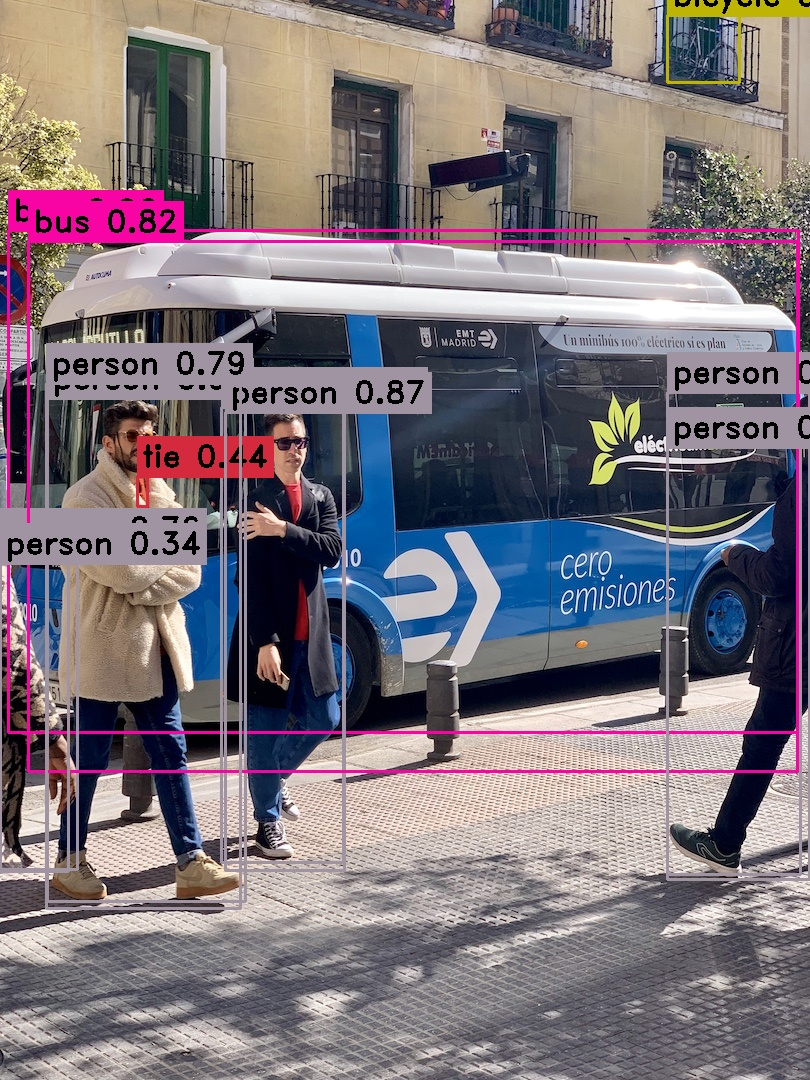
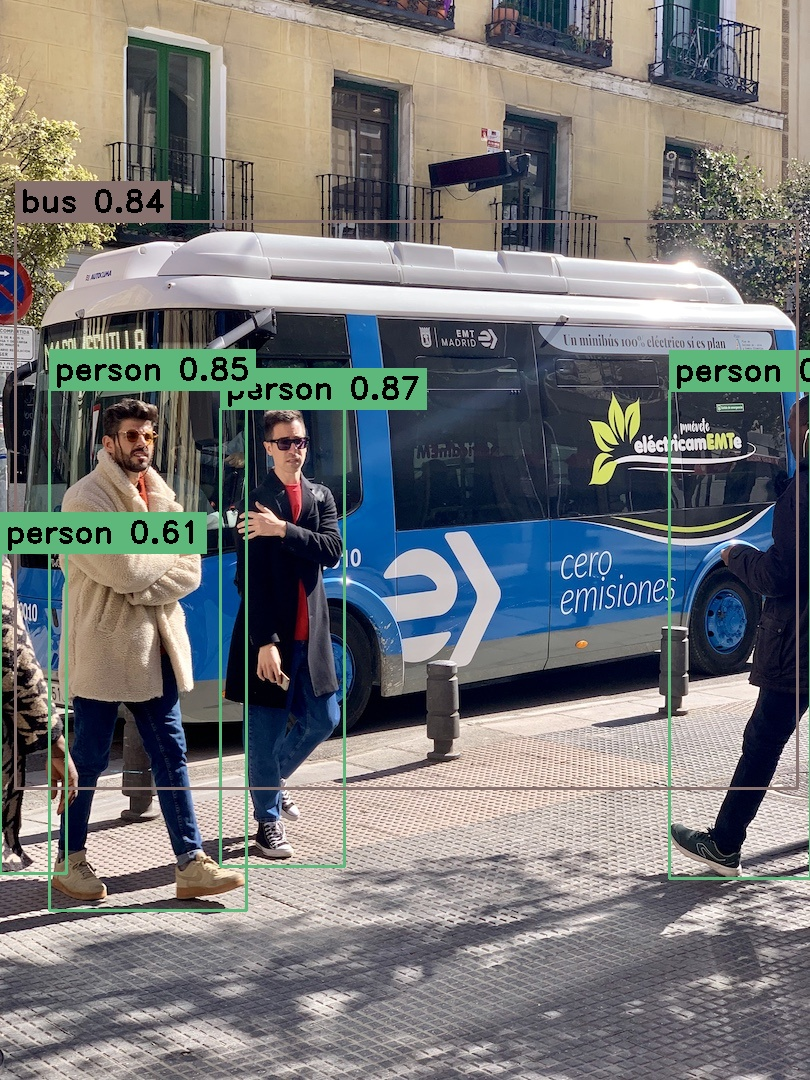
更换结果图

Changed region(s): [[0.0, 0.1528, 1.0, 0.8556], [0.8025, 0.0, 1.0, 0.0917]]

diff --git a/yolo_dnn/main.cpp b/yolo_dnn/main.cpp
@@ -13,8 +13,9 @@ using namespace dnn;
 int main()
 {
 	string img_path = "images/bus.jpg";
-	string model_path1 = "models/yolov7.onnx";
-	string model_path2 = "models/yolov5s.onnx";
+
+	string model_path1 = "models/yolov5s.onnx";
+	string model_path2 = "models/yolov7.onnx";
 	string model_path3 = "models/yolov8n.onnx";
 	Mat img = imread(img_path);
 
@@ -29,9 +30,12 @@ int main()
 		color.push_back(Scalar(b, g, r));
 	}
 
-	Yolov8 yolov8; Net net3;
+
+
+
+	Yolov5 yolov5; Net net1;
 	Mat img1 = img.clone();
-	bool isOK = yolov8.readModel(net3, model_path3, USE_CUDA);
+	bool isOK = yolov5.readModel(net1, model_path1, USE_CUDA);
 	if (isOK) {
 		cout << "read net ok!" << endl;
 	}
@@ -39,16 +43,16 @@ int main()
 		cout << "read onnx model failed!";
 		return -1;
 	}
-	vector<Detection> result3 = yolov8.Detect(img1, net3);
+	vector<Detection> result1 = yolov5.Detect(img1, net1);
+	yolov5.drawPred(img1, result1, color);
+	Mat dst = img1({ 0, 0, img.cols, img.rows });
+	imwrite("results/yolov5.jpg", dst);
 
-	if (isOK) {
-		yolov8.drawPred(img1, result3, color);
-		Mat dst = img1({ 0, 0, img.cols, img.rows });
-		imshow("yolov8", dst);
-	}
 
-	Yolov7 yolov7; Net net1; vector<Detection> result1;
-	isOK = yolov7.readModel(net1, model_path1, USE_CUDA);
+
+	Yolov7 yolov7; Net net2; 
+	Mat img2 = img.clone();
+	isOK = yolov7.readModel(net2, model_path2, USE_CUDA);
 	if (isOK) {
 		cout << "read net ok!" << endl;
 	}
@@ -56,27 +60,27 @@ int main()
 		cout << "read onnx model failed!";
 		return -1;
 	}
-	result1 = yolov7.Detect(img, net1);
-	yolov7.drawPred(img, result1, color);
-	imshow("yolov7", img);
-	
+	vector<Detection> result2 = yolov7.Detect(img2, net2);
+	yolov7.drawPred(img2, result2, color);
+	dst = img2({ 0, 0, img.cols, img.rows });
+	imwrite("results/yolov7.jpg", dst);
 
 
-	//Yolov5 yolov5; Net net2; vector<Detection> result2; Mat img2 = img.clone();
-	//isOK = yolov5.readModel(net2, model_path2, USE_CUDA);
-	//if (isOK) {
-	//	cout << "read net ok!" << endl;
-	//}
-	//else {
-	//	cout << "read onnx model failed!";
-	//	return -1;
-	//}
+	Yolov8 yolov8; Net net3;
+	Mat img3 = img.clone();
+	isOK = yolov8.readModel(net3, model_path3, USE_CUDA);
+	if (isOK) {
+		cout << "read net ok!" << endl;
+	}
+	else {
+		cout << "read onnx model failed!";
+		return -1;
+	}
+	vector<Detection> result3 = yolov8.Detect(img3, net3);
+	yolov8.drawPred(img3, result3, color);
+	dst = img3({ 0, 0, img.cols, img.rows });
+	imwrite("results/yolov8.jpg", dst);
 
-	//result2 = yolov5.Detect(img2, net2);
-	//yolov5.drawPred(img2, result2, color);
-	//Mat dst = img2({ 0, 0, img.cols, img.rows });
-	//imshow("yolov5", dst);
 
-	waitKey(0);
 	return 0;
 }
